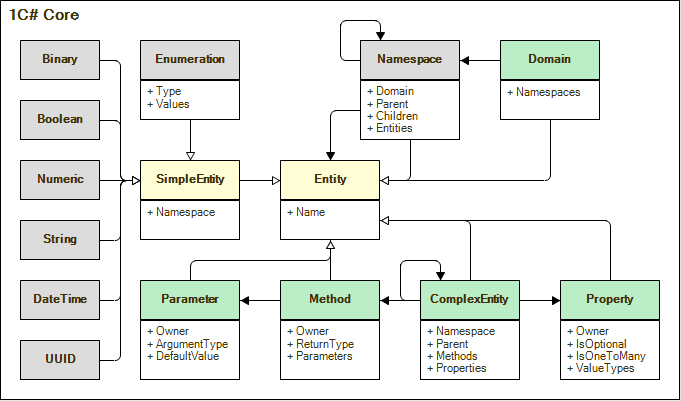
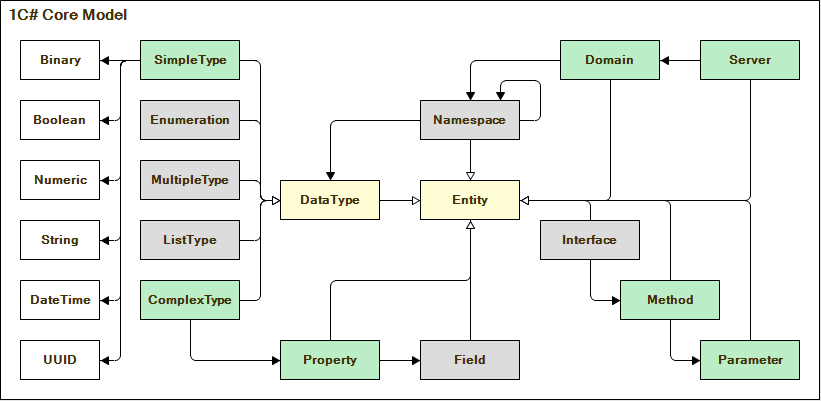
1C# data & code model refactoring

diff --git a/src/Core.Model/Data/Property.cs b/src/Core.Model/Data/Property.cs
@@ -6,9 +6,6 @@ namespace OneCSharp.Core.Model
     {
         public ComplexType Owner { get; set; }
         public DataType ValueType { get; set; }
-        public bool IsOptional { get; set; }
-        public bool IsNestedSet { get; set; }
-        public string ForeignKey { get; set; }
         public List<Field> Fields { get; set; } = new List<Field>();
     }
 }

diff --git a/src/Core.Model/Data/ListType.cs b/src/Core.Model/Data/ListType.cs
@@ -1,0 +1,9 @@
+using System.Collections.Generic;
+
+namespace OneCSharp.Core.Model
+{
+    public sealed class ListType : DataType
+    {
+        public List<ComplexType> Type { get; } = new List<ComplexType>();
+    }
+}

diff --git a/src/SQL.Model/Table.cs b/src/SQL.Model/Table.cs
@@ -1,5 +1,4 @@
 using OneCSharp.Core.Model;
-using System.Collections.Generic;
 
 namespace OneCSharp.SQL.Model
 {
